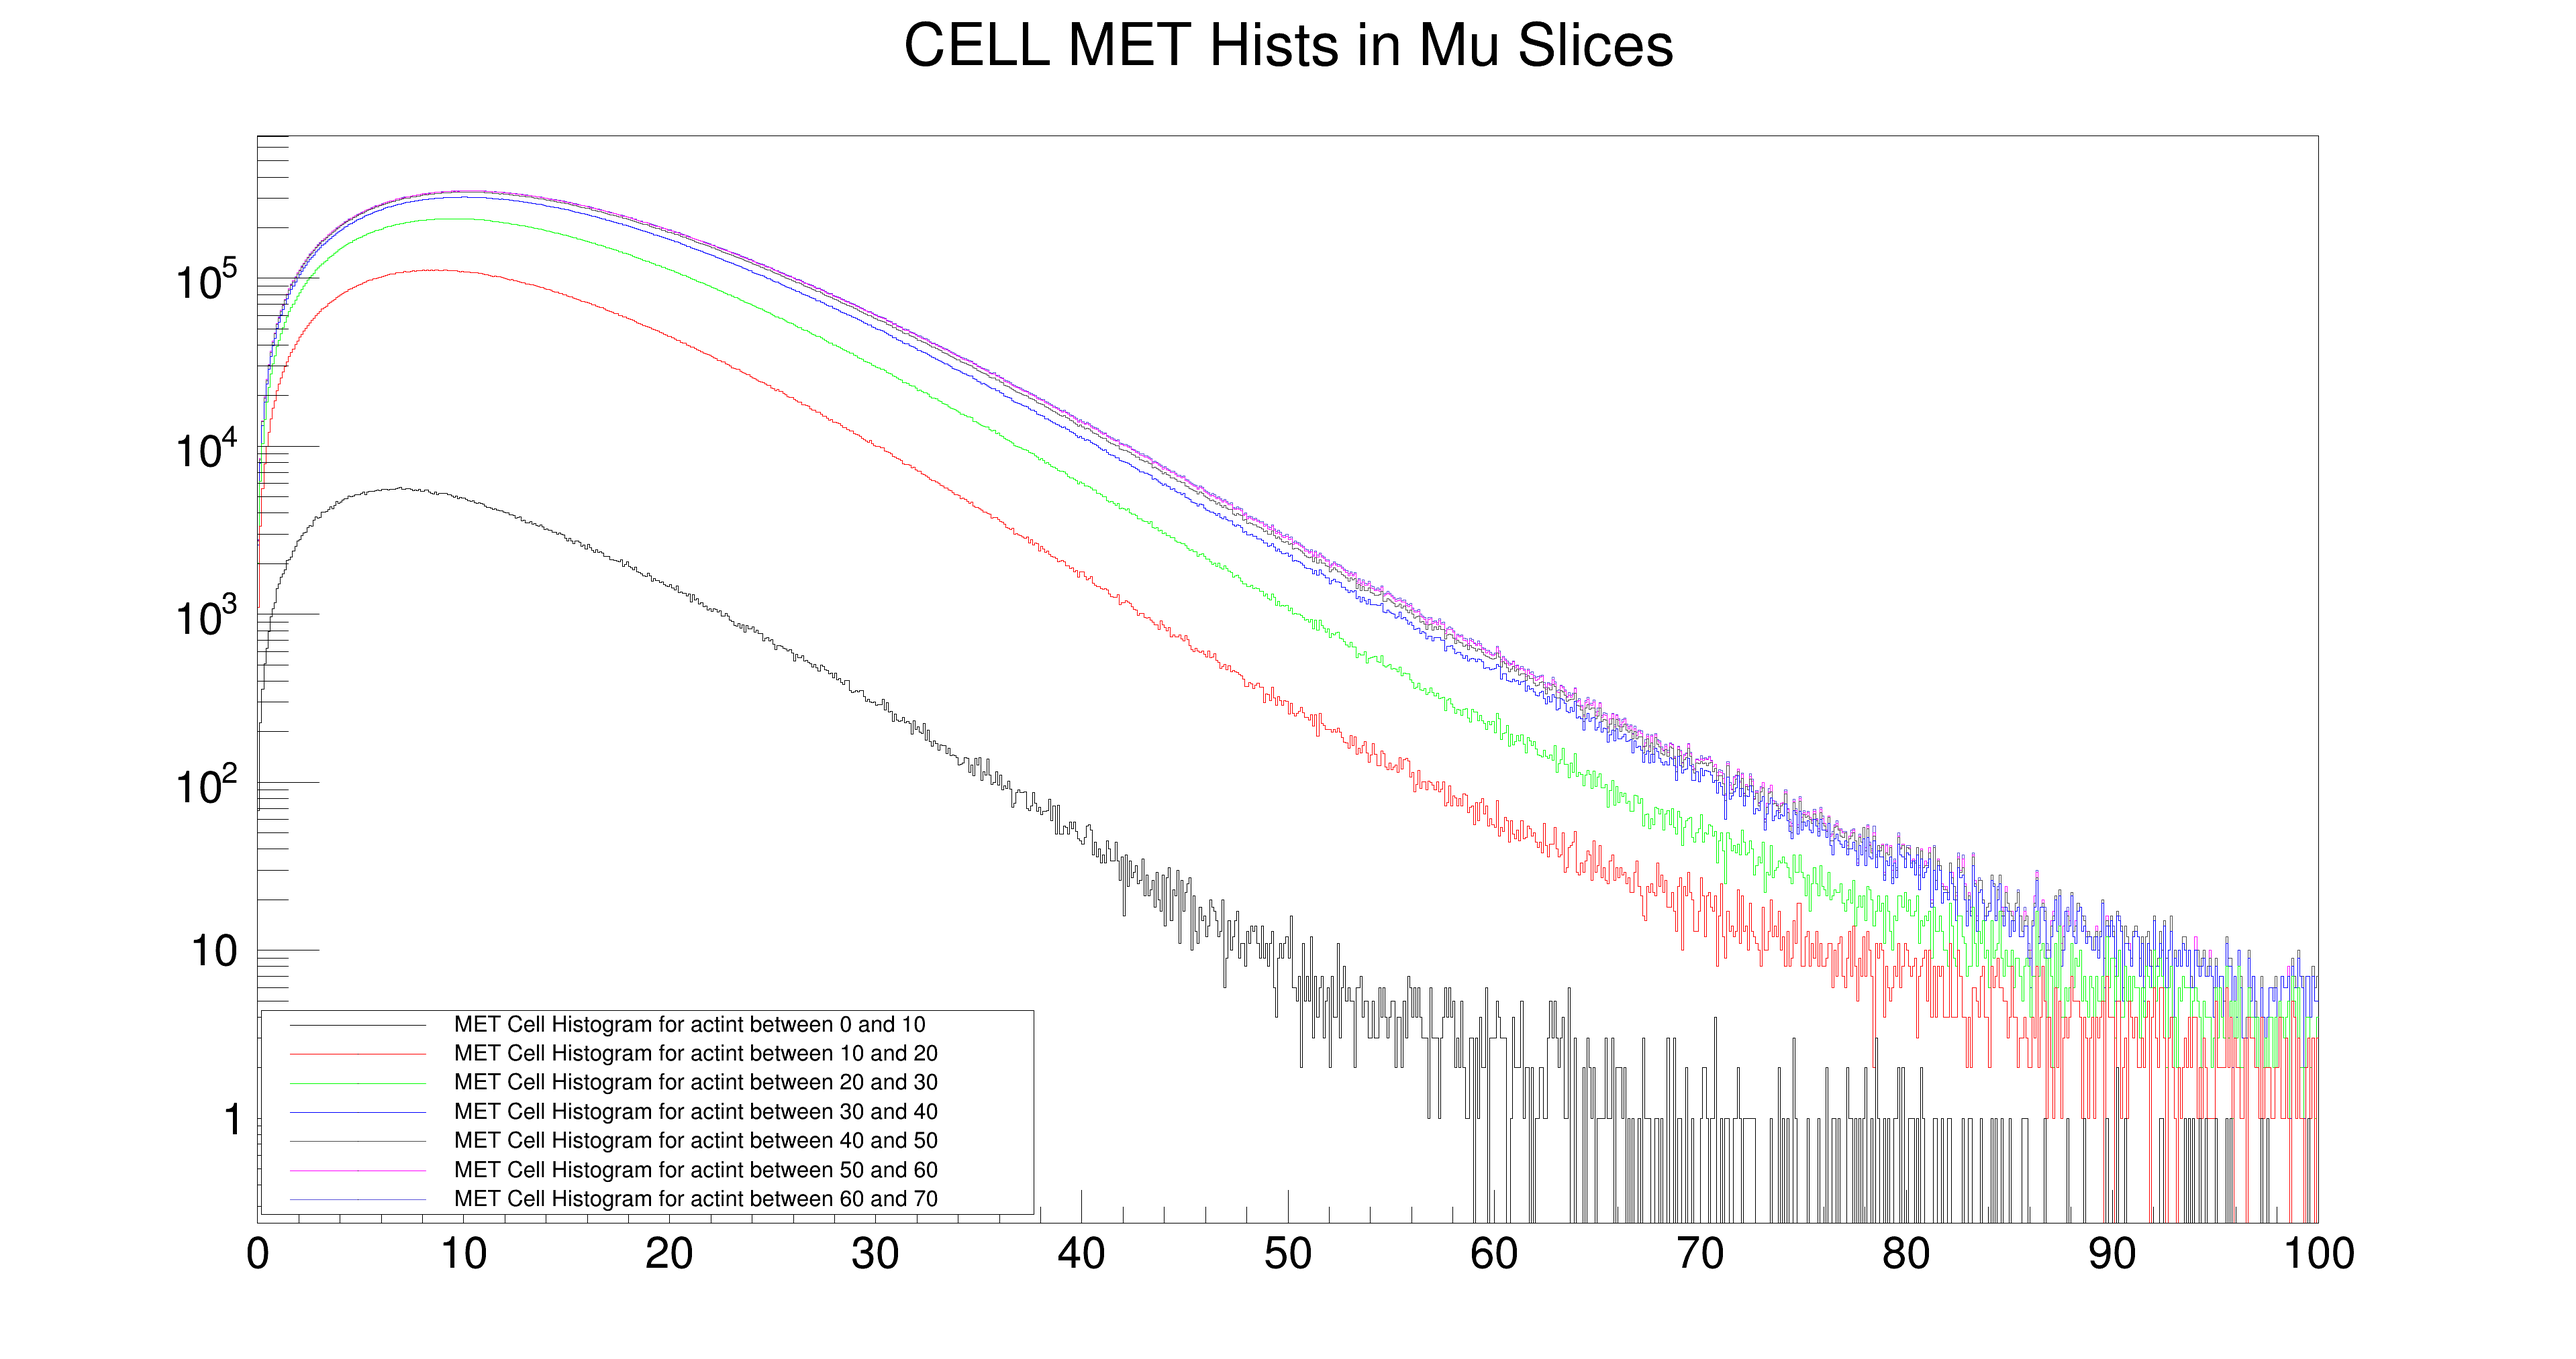
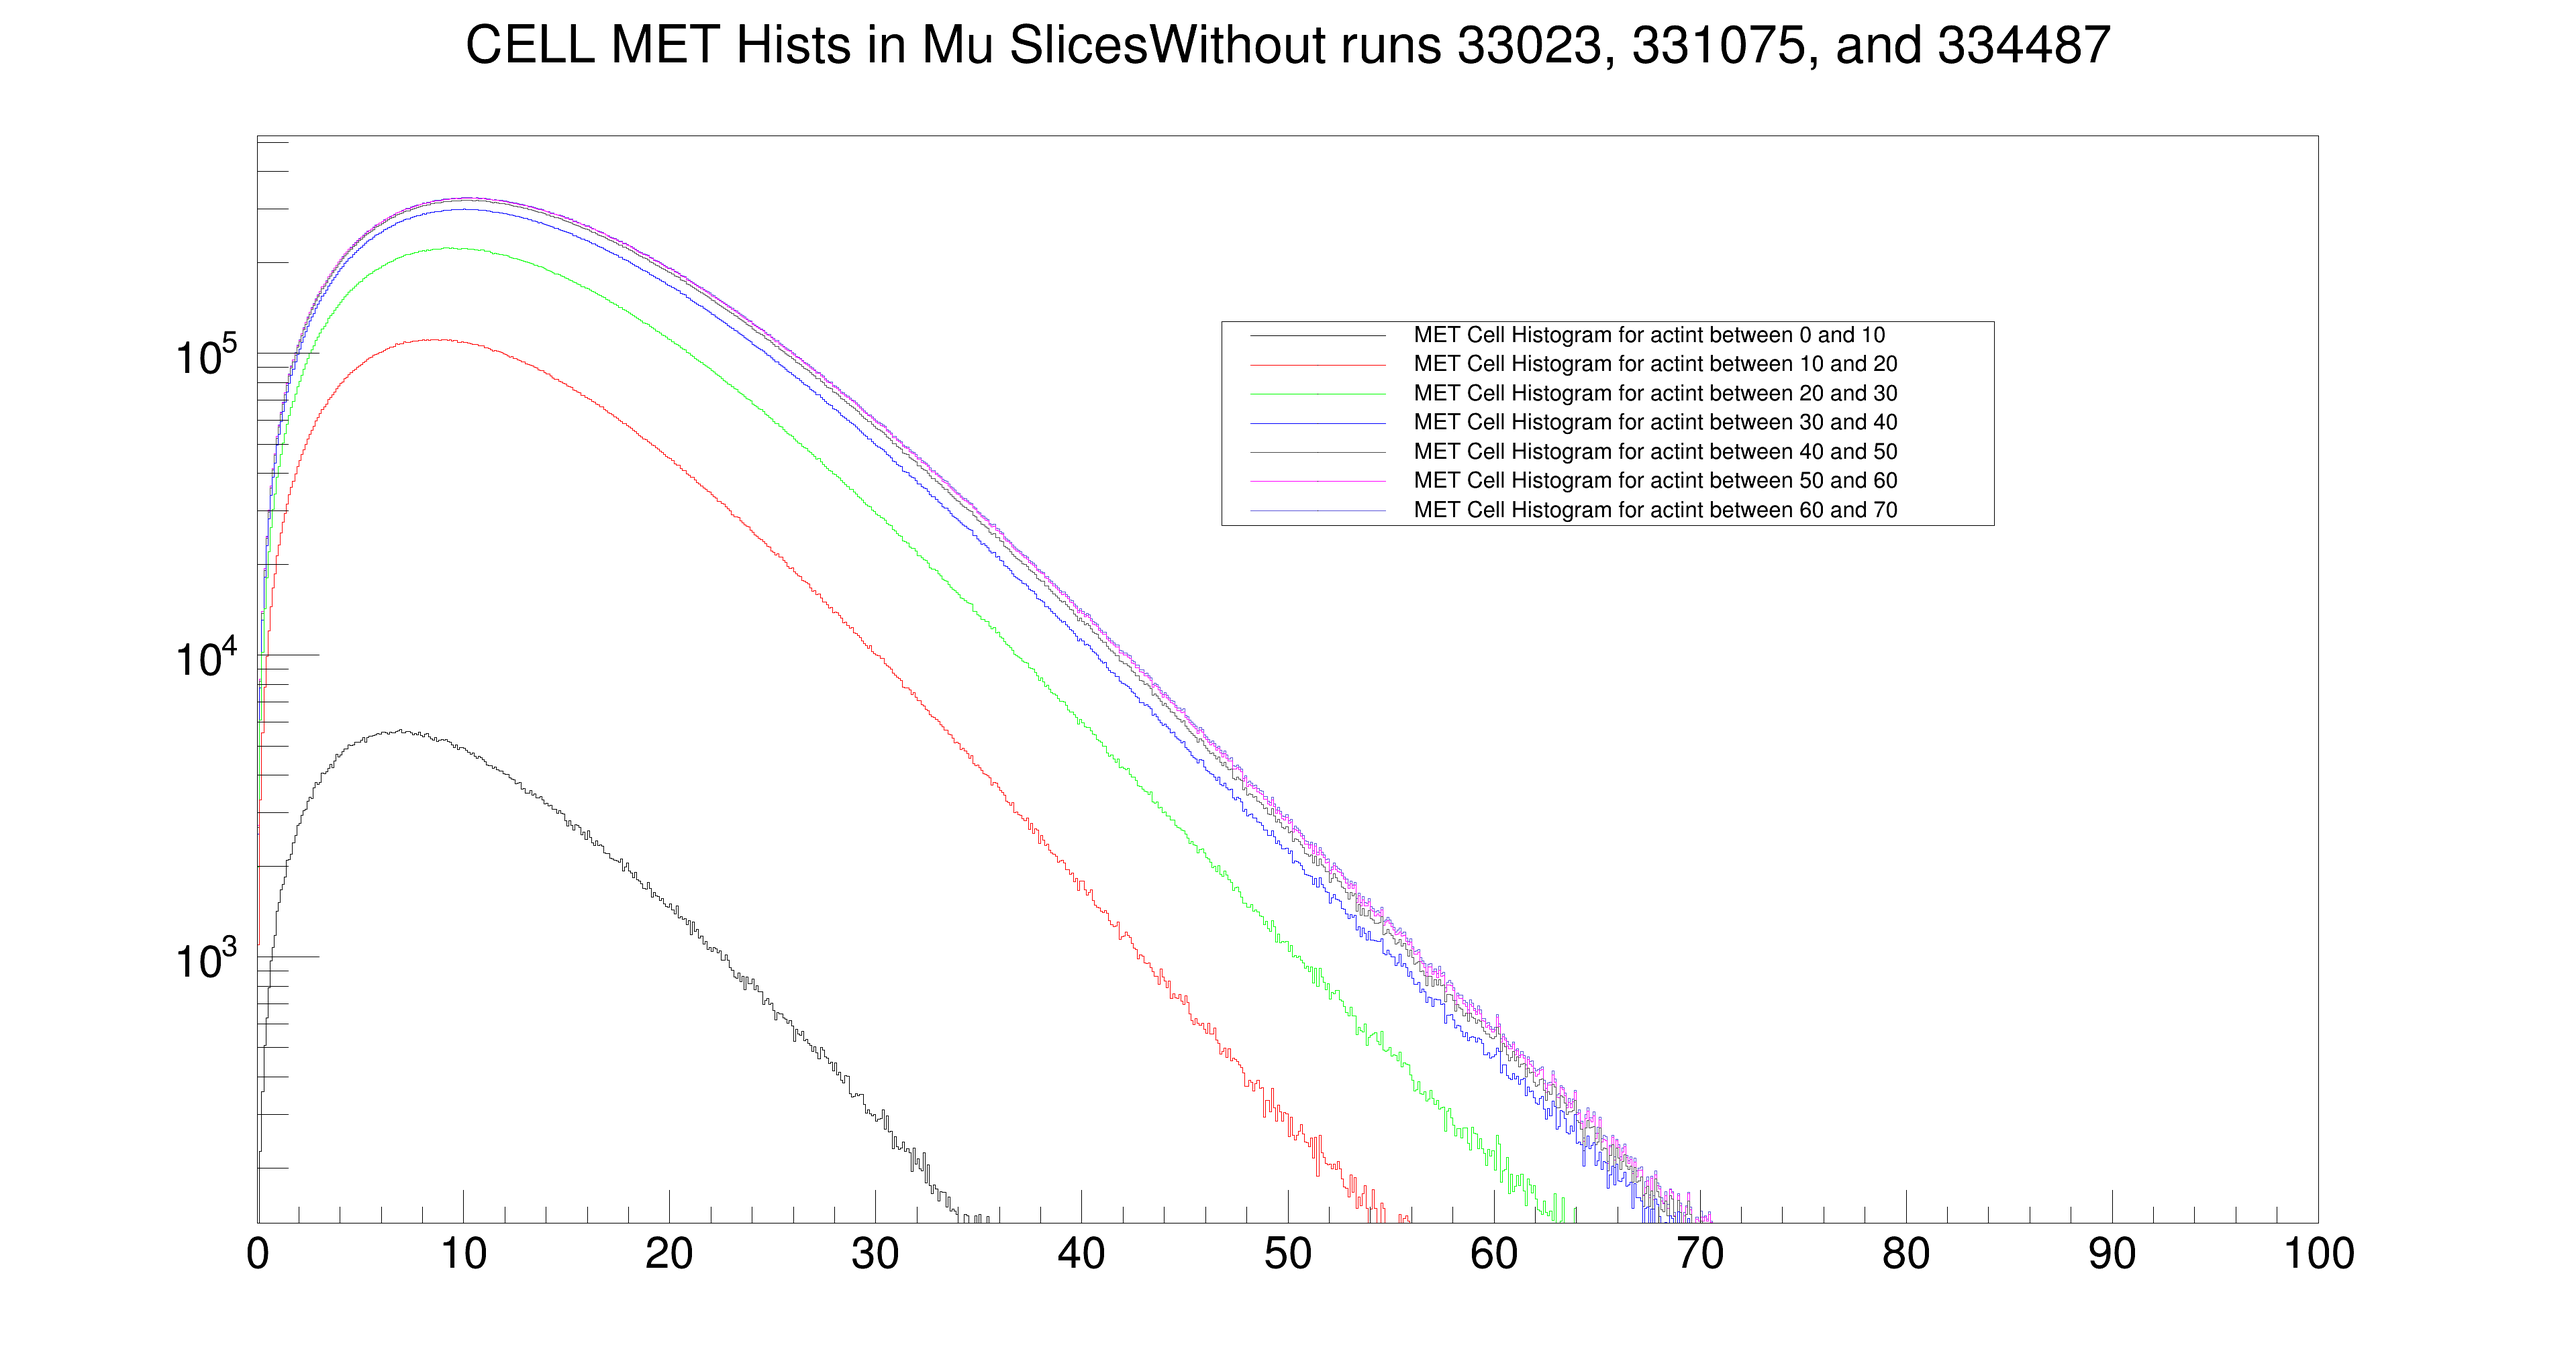
Started writing selector to compute efficiency of L1XE30 as a function o cell met

diff --git a/Jburr_Dataset_Analysis/computeL1XE30Efficiency/L1XEefficiencySelector.h b/Jburr_Dataset_Analysis/computeL1XE30Efficiency/L1XEefficiencySelector.h
@@ -1,0 +1,117 @@
+//////////////////////////////////////////////////////////
+// This class has been automatically generated on
+// Tue Jun 12 21:21:22 2018 by ROOT version 6.12/06
+// from TTree METTree/METTree
+// found on file: ../data/totalJburrTuple.root
+//////////////////////////////////////////////////////////
+
+#ifndef L1XEefficiencySelector_h
+#define L1XEefficiencySelector_h
+
+#include <TROOT.h>
+#include <TChain.h>
+#include <TFile.h>
+#include <TSelector.h>
+#include <TTreeReader.h>
+#include <TTreeReaderValue.h>
+#include <TTreeReaderArray.h>
+#include <TH2.h>
+#include <TEfficiency.h>
+#include <TStyle.h>
+
+// Headers needed by this particular selector
+#include <vector>
+
+class L1XEefficiencySelector : public TSelector {
+public :
+   TTreeReader     fReader;  //!the tree reader
+   TTree          *fChain = 0;   //!pointer to the analyzed TTree or TChain
+   TEfficiency*            metcellmu0thru10 = 0;
+   TEfficiency*            metcellmu10thru20 = 0;
+   TEfficiency*            metcellmu20thru30 = 0;
+   TEfficiency*            metcellmu30thru40 = 0;
+   TEfficiency*            metcellmu40thru50 = 0;
+   TEfficiency*            metcellmu50thru60 = 0;
+   TEfficiency*            metcellmu60thru70 = 0;
+
+   // Readers to access the data (delete the ones you do not need).{{{
+   TTreeReaderValue<UInt_t> RunNumber = {fReader, "RunNumber"};
+   TTreeReaderValue<ULong64_t> EventNumber = {fReader, "EventNumber"};
+   TTreeReaderValue<UInt_t> LumiBlock = {fReader, "LumiBlock"};
+   TTreeReaderValue<UInt_t> NPrimaryVertices = {fReader, "NPrimaryVertices"};
+   TTreeReaderValue<Float_t> InTimePileup = {fReader, "InTimePileup"};
+   TTreeReaderValue<Float_t> OutOfTimePileup = {fReader, "OutOfTimePileup"};
+   TTreeReaderValue<Float_t> cell_mpx = {fReader, "cell.mpx"};
+   TTreeReaderValue<Float_t> cell_mpy = {fReader, "cell.mpy"};
+   TTreeReaderValue<Float_t> cell_sumet = {fReader, "cell.sumet"};
+   TTreeReaderValue<Float_t> cell_met = {fReader, "cell.met"};
+   TTreeReaderValue<Float_t> cell_phi = {fReader, "cell.phi"};
+   TTreeReaderValue<Bool_t> HLT_xe110_pufit_L1XE50_passed = {fReader, "HLT_xe110_pufit_L1XE50.passed"};
+   TTreeReaderValue<Float_t> HLT_xe110_pufit_L1XE50_prescale = {fReader, "HLT_xe110_pufit_L1XE50.prescale"};
+   TTreeReaderValue<UInt_t> HLT_xe110_pufit_L1XE50_passBits = {fReader, "HLT_xe110_pufit_L1XE50.passBits"};
+   TTreeReaderValue<Bool_t> L1_XE50_passed = {fReader, "L1_XE50.passed"};
+   TTreeReaderValue<Float_t> L1_XE50_prescale = {fReader, "L1_XE50.prescale"};
+   TTreeReaderValue<UInt_t> L1_XE50_passBits = {fReader, "L1_XE50.passBits"};
+   TTreeReaderValue<Bool_t> L1_XE55_passed = {fReader, "L1_XE55.passed"};
+   TTreeReaderValue<Float_t> L1_XE55_prescale = {fReader, "L1_XE55.prescale"};
+   TTreeReaderValue<UInt_t> L1_XE55_passBits = {fReader, "L1_XE55.passBits"};
+   TTreeReaderValue<Bool_t> L1_XE60_passed = {fReader, "L1_XE60.passed"};
+   TTreeReaderValue<Float_t> L1_XE60_prescale = {fReader, "L1_XE60.prescale"};
+   TTreeReaderValue<UInt_t> L1_XE60_passBits = {fReader, "L1_XE60.passBits"};
+   TTreeReaderValue<Bool_t> HLT_noalg_zb_L1ZB_passed = {fReader, "HLT_noalg_zb_L1ZB.passed"};
+   TTreeReaderValue<Float_t> HLT_noalg_zb_L1ZB_prescale = {fReader, "HLT_noalg_zb_L1ZB.prescale"};
+   TTreeReaderValue<UInt_t> HLT_noalg_zb_L1ZB_passBits = {fReader, "HLT_noalg_zb_L1ZB.passBits"};
+   TTreeReaderValue<Bool_t> HLT_j40_L1ZB_passed = {fReader, "HLT_j40_L1ZB.passed"};
+   TTreeReaderValue<Float_t> HLT_j40_L1ZB_prescale = {fReader, "HLT_j40_L1ZB.prescale"};
+   TTreeReaderValue<UInt_t> HLT_j40_L1ZB_passBits = {fReader, "HLT_j40_L1ZB.passBits"};
+   TTreeReaderValue<Bool_t> HLT_noalg_L1XE10_passed = {fReader, "HLT_noalg_L1XE10.passed"};
+   TTreeReaderValue<Float_t> HLT_noalg_L1XE10_prescale = {fReader, "HLT_noalg_L1XE10.prescale"};
+   TTreeReaderValue<UInt_t> HLT_noalg_L1XE10_passBits = {fReader, "HLT_noalg_L1XE10.passBits"};
+   TTreeReaderValue<Bool_t> HLT_noalg_L1XE20_passed = {fReader, "HLT_noalg_L1XE20.passed"};
+   TTreeReaderValue<Float_t> HLT_noalg_L1XE20_prescale = {fReader, "HLT_noalg_L1XE20.prescale"};
+   TTreeReaderValue<UInt_t> HLT_noalg_L1XE20_passBits = {fReader, "HLT_noalg_L1XE20.passBits"};
+   TTreeReaderValue<Bool_t> HLT_noalg_L1XE30_passed = {fReader, "HLT_noalg_L1XE30.passed"};
+   TTreeReaderValue<Float_t> HLT_noalg_L1XE30_prescale = {fReader, "HLT_noalg_L1XE30.prescale"};
+   TTreeReaderValue<UInt_t> HLT_noalg_L1XE30_passBits = {fReader, "HLT_noalg_L1XE30.passBits"};
+   TTreeReaderValue<Bool_t> HLT_noalg_L1XE40_passed = {fReader, "HLT_noalg_L1XE40.passed"};
+   TTreeReaderValue<Float_t> HLT_noalg_L1XE40_prescale = {fReader, "HLT_noalg_L1XE40.prescale"};
+   TTreeReaderValue<UInt_t> HLT_noalg_L1XE40_passBits = {fReader, "HLT_noalg_L1XE40.passBits"};
+   TTreeReaderValue<Bool_t> HLT_noalg_L1XE45_passed = {fReader, "HLT_noalg_L1XE45.passed"};
+   TTreeReaderValue<Float_t> HLT_noalg_L1XE45_prescale = {fReader, "HLT_noalg_L1XE45.prescale"};
+   TTreeReaderValue<UInt_t> HLT_noalg_L1XE45_passBits = {fReader, "HLT_noalg_L1XE45.passBits"};
+
+   L1XEefficiencySelector(TTree * /*tree*/ =0) { }
+   virtual ~L1XEefficiencySelector() { }
+   virtual Int_t   Version() const { return 2; }
+   virtual void    Begin(TTree *tree);
+   virtual void    SlaveBegin(TTree *tree);
+   virtual void    Init(TTree *tree);
+   virtual Bool_t  Notify();
+   virtual Bool_t  Process(Long64_t entry);
+   virtual Int_t   GetEntry(Long64_t entry, Int_t getall = 0) { return fChain ? fChain->GetTree()->GetEntry(entry, getall) : 0; }
+   virtual void    SetOption(const char *option) { fOption = option; }
+   virtual void    SetObject(TObject *obj) { fObject = obj; }
+   virtual void    SetInputList(TList *input) { fInput = input; }
+   virtual TList  *GetOutputList() const { return fOutput; }
+   virtual void    SlaveTerminate();
+   virtual void    Terminate();
+
+   ClassDef(L1XEefficiencySelector,0);
+
+};//}}}
+
+#endif
+
+#ifdef L1XEefficiencySelector_cxx
+void L1XEefficiencySelector::Init(TTree *tree)
+{
+   fReader.SetTree(tree);
+}
+
+Bool_t L1XEefficiencySelector::Notify()
+{
+   return kTRUE;
+}
+
+
+#endif // #ifdef L1XEefficiencySelector_cxx

diff --git a/Jburr_Dataset_Analysis/plotMETDistsVersusMu/PlotMETDistsVersMu.C b/Jburr_Dataset_Analysis/plotMETDistsVersusMu/PlotMETDistsVersMu.C
@@ -27,26 +27,29 @@ Bool_t PlotMETDistsVersMu::Process(Long64_t entry)
 {
    fReader.SetEntry(entry);
 
-   if ( *InTimePileup > 0.0 && *InTimePileup < 10.0  ){
-       metcellmu0thru10->Fill(*cell_met);
-   }
-   if ( *InTimePileup > 10.0 && *InTimePileup < 20.0  ){
-       metcellmu10thru20->Fill(*cell_met);
-   }
-   if ( *InTimePileup > 20.0 && *InTimePileup < 30.0  ){
-       metcellmu20thru30->Fill(*cell_met);
-   }
-   if ( *InTimePileup > 30.0 && *InTimePileup < 40.0  ){
-       metcellmu30thru40->Fill(*cell_met);
-   }
-   if ( *InTimePileup > 40.0 && *InTimePileup < 50.0  ){
-       metcellmu40thru50->Fill(*cell_met);
-   }
-   if ( *InTimePileup > 50.0 && *InTimePileup < 60.0  ){
-       metcellmu50thru60->Fill(*cell_met);
-   }
-   if ( *InTimePileup > 60.0 && *InTimePileup < 70.0  ){
-       metcellmu60thru70->Fill(*cell_met);
+
+   if (*RunNumber != 33023 && *RunNumber != 331975 && *RunNumber != 334487 ){
+       if ( *InTimePileup > 0.0 && *InTimePileup < 10.0  ){
+           metcellmu0thru10->Fill(*cell_met);
+       }
+       if ( *InTimePileup > 10.0 && *InTimePileup < 20.0  ){
+           metcellmu10thru20->Fill(*cell_met);
+       }
+       if ( *InTimePileup > 20.0 && *InTimePileup < 30.0  ){
+           metcellmu20thru30->Fill(*cell_met);
+       }
+       if ( *InTimePileup > 30.0 && *InTimePileup < 40.0  ){
+           metcellmu30thru40->Fill(*cell_met);
+       }
+       if ( *InTimePileup > 40.0 && *InTimePileup < 50.0  ){
+           metcellmu40thru50->Fill(*cell_met);
+       }
+       if ( *InTimePileup > 50.0 && *InTimePileup < 60.0  ){
+           metcellmu50thru60->Fill(*cell_met);
+       }
+       if ( *InTimePileup > 60.0 && *InTimePileup < 70.0  ){
+           metcellmu60thru70->Fill(*cell_met);
+       }
    }
    return kTRUE;
 }
@@ -58,7 +61,7 @@ void PlotMETDistsVersMu::SlaveTerminate()
 void PlotMETDistsVersMu::Terminate()
 {
     TCanvas* mycanv = new TCanvas("cellMuSlices", "MET Cell Slices in Mu");
-    THStack* muSlicesStack = new THStack("muStack","CELL MET Hists in Mu Slices");
+    THStack* muSlicesStack = new THStack("muStack","CELL MET Hists in Mu Slices without runs 33023, 331975, and 334487");
 
     metcellmu0thru10->SetLineColor(1);
     metcellmu10thru20->SetLineColor(2);

diff --git a/Jburr_Dataset_Analysis/computeL1XE30Efficiency/L1XEefficiencySelector.C b/Jburr_Dataset_Analysis/computeL1XE30Efficiency/L1XEefficiencySelector.C
@@ -1,0 +1,27 @@
+#define L1XEefficiencySelector_cxx
+#include "L1XEefficiencySelector.h"
+
+void L1XEefficiencySelector::Begin(TTree * /*tree*/)
+{
+   TString option = GetOption();
+}
+
+void L1XEefficiencySelector::SlaveBegin(TTree * /*tree*/)
+{
+   TString option = GetOption();
+
+}
+
+Bool_t L1XEefficiencySelector::Process(Long64_t entry)
+{
+   fReader.SetEntry(entry);
+   return kTRUE;
+}
+
+void L1XEefficiencySelector::SlaveTerminate()
+{
+}
+
+void L1XEefficiencySelector::Terminate()
+{
+}
